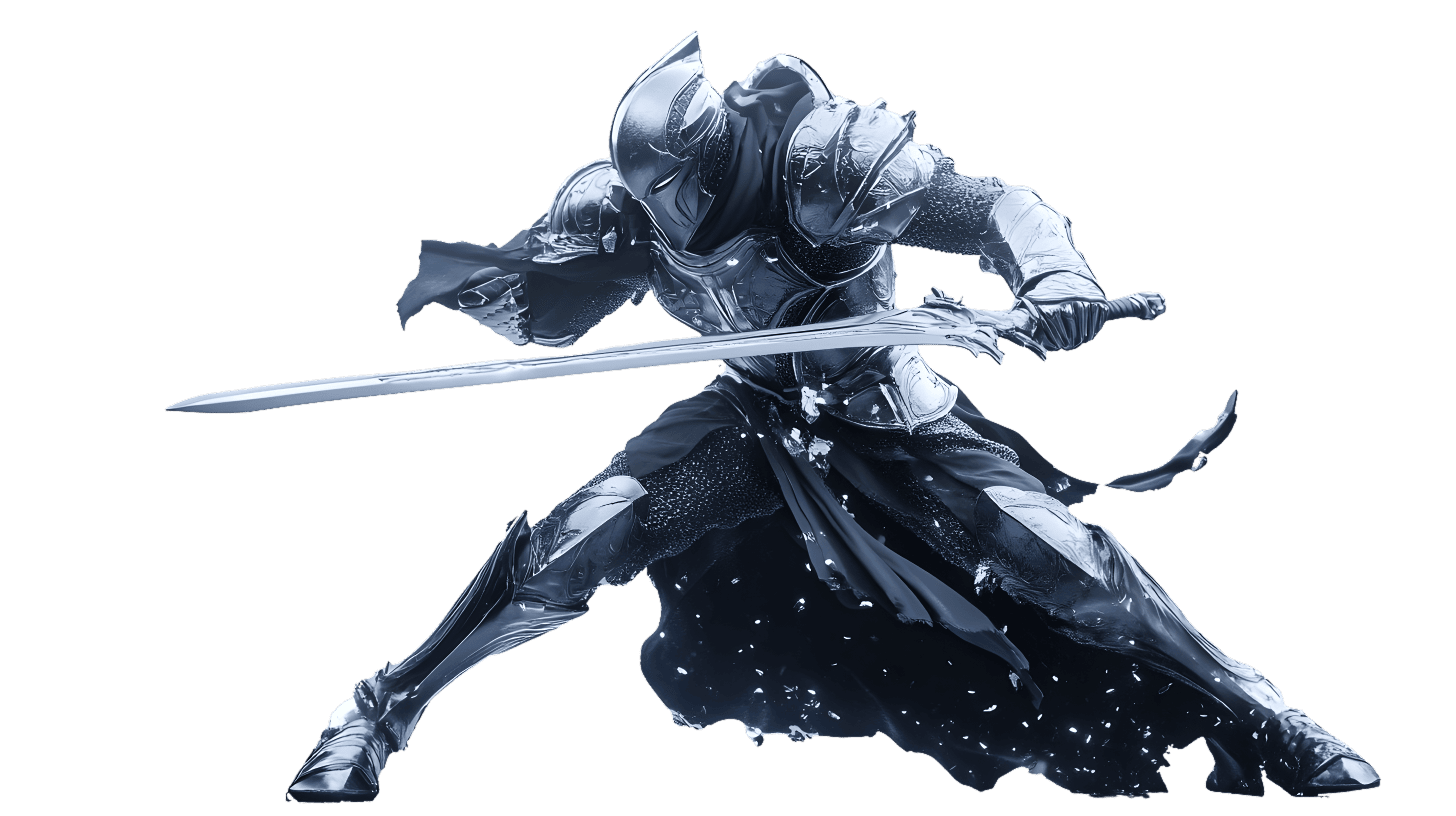
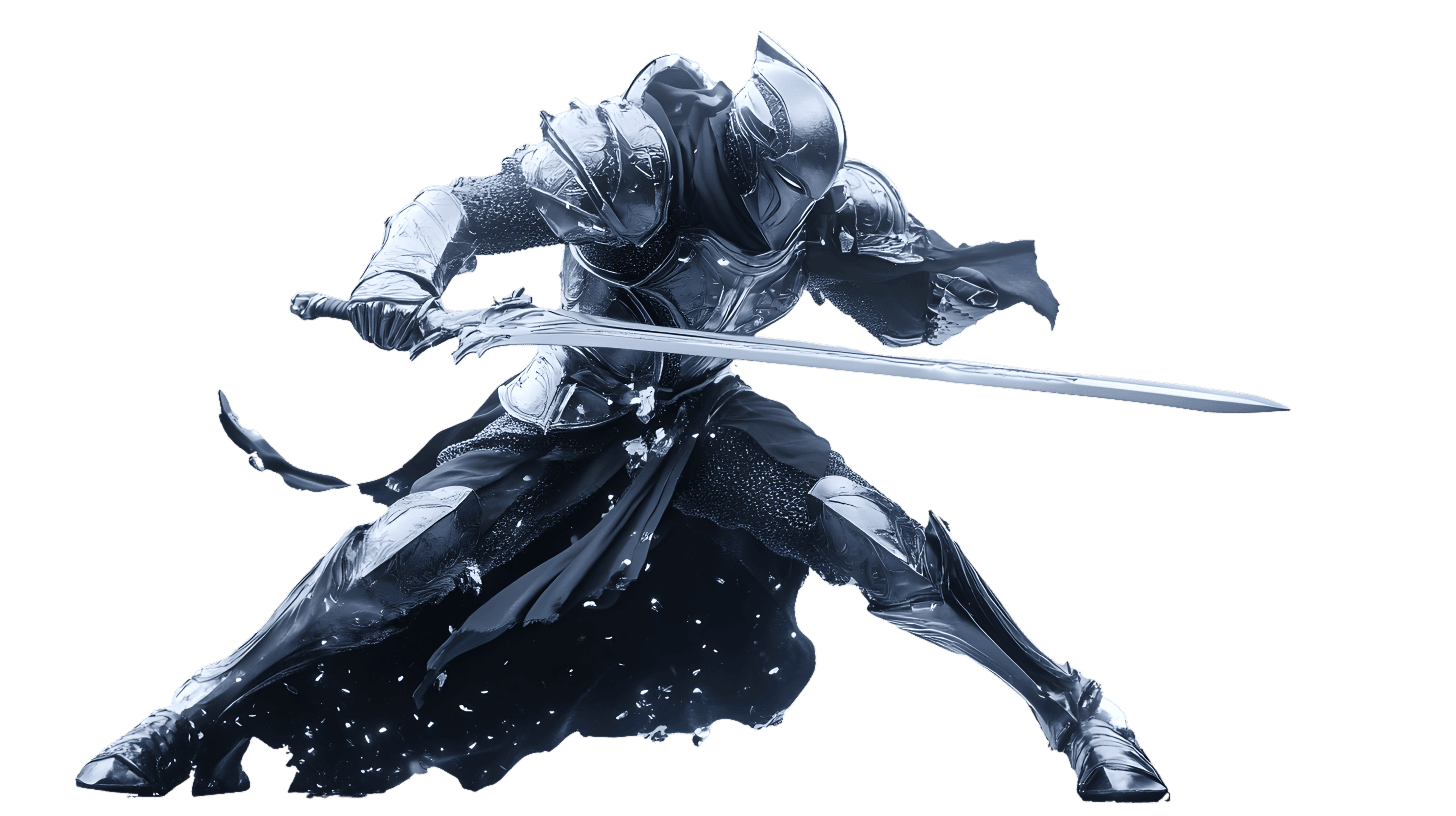
[KBW-110][ADD] shadow to the warriors

diff --git a/src/components/battle/Opponent.tsx b/src/components/battle/Opponent.tsx
@@ -8,26 +8,28 @@ interface OpponentProps {
   styleClass: string;
 }
 
-const Opponent: React.FC<OpponentProps> = ({ player, styles, styleClass}) => {
+const Opponent: React.FC<OpponentProps> = ({ player, styles, styleClass }) => {
   const [warriorPhoto, setWarriorPhoto] = useState<string>('');
 
   useEffect(() => {
-    if(player !== null){
+    if (player !== null) {
       const warriorPhoto = getPhotoByLoyalty(player);
       setWarriorPhoto(warriorPhoto);
     }
   }, [player]);
 
   return (
-    <div className={`animate__animated ${styleClass} w-[45%] h-[90%] mr-[5%] mt-[15%]`}>
+    <div className={`animate__animated ${styleClass} w-[45%] h-[90%] mt-[10%]`}>
 
       {warriorPhoto !== '' ? (
-        <img
-          src={warriorPhoto}
-          className={`h-full w-full object-cover z-0 ${styles}`}
-          
-        />
-      ) : null} 
+        <>
+          <div className='absolute bottom-[5%] w-full rounded-[100%] bg-[rgba(0,_0,_0,_0.4)] h-[30%] shadow-[0_0_10px_10px_rgba(0,_0,_0,_0.4)]' />
+          <img
+            src={warriorPhoto}
+            className={`w-full object-cover ${styles}`}
+          />
+        </>
+      ) : null}
 
     </div>
   );

diff --git a/src/components/battle/Battle.tsx b/src/components/battle/Battle.tsx
@@ -1,20 +1,21 @@
 import useStore from '../../store/store';
 import Opponent from './Opponent';
 
-
 const Battle: React.FC = () => {
-
   const { attacker, defender } = useStore();
 
   return (
-    <div className="w-[98%] flex justify-around items-center">
+    <div className='w-full flex justify-around items-center'>
       <Opponent
         player={attacker?.isBetrayer ? defender! : attacker!}
-        styleClass={'animate__backInUp'} ></Opponent>
+        styles='transform scale-x-[1]'
+        styleClass={'animate__backInUp'}>
+      </Opponent>
       <Opponent
         player={attacker?.isBetrayer ? attacker! : defender!}
-        styles="transform scale-x-[-1]"
-        styleClass={'animate__backInUp transform scale-x-[-1]'}></Opponent>
+        styles='transform scale-x-[1]'
+        styleClass={'animate__backInUp transform scale-x-[-1]'}>
+      </Opponent>
     </div>
   );
 };
